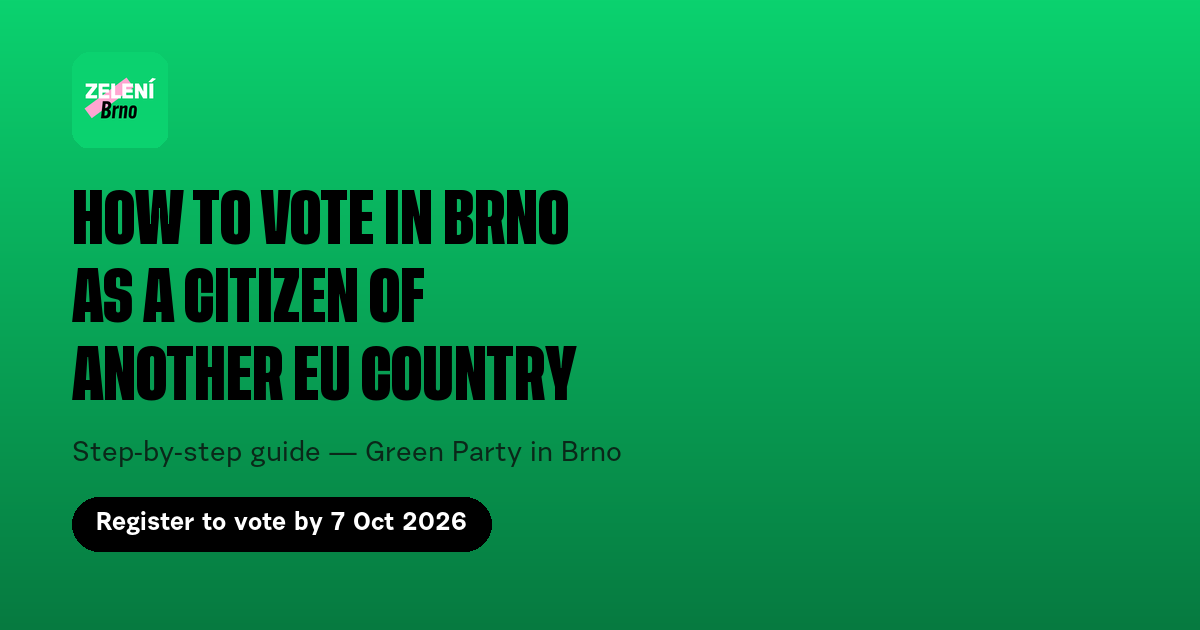
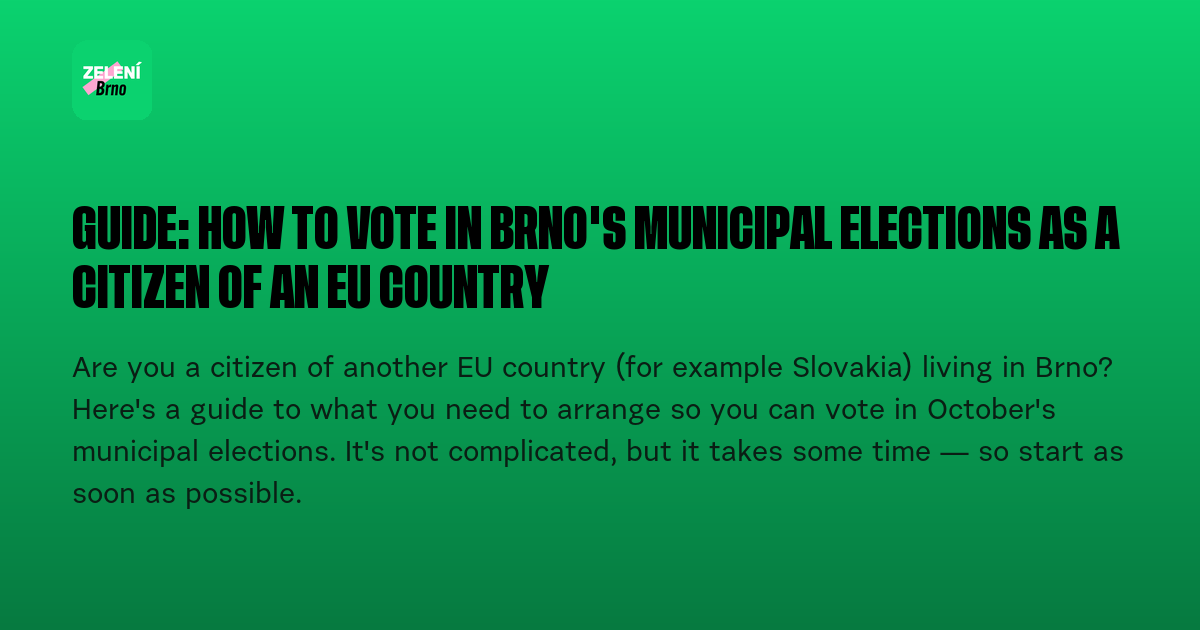
Match the English social preview to the new Czech copy
Same layout and translated title/body text as the Czech og-image,
with og:title/og:description updated to match.

diff --git a/en/index.html b/en/index.html
@@ -17,19 +17,19 @@
 <meta property="og:locale:alternate" content="cs_CZ">
 <meta property="og:site_name" content="Voting in Brno 2026">
 <meta property="og:url" content="https://volbyvbrne.cz/en/">
-<meta property="og:title" content="How to vote in Brno as a citizen of another EU country">
-<meta property="og:description" content="Step-by-step guide: how to get proof of residence and register on the voter list for the 2026 municipal elections in Brno.">
+<meta property="og:title" content="Guide: how to vote in Brno's municipal elections as a citizen of an EU country">
+<meta property="og:description" content="Are you a citizen of another EU country (for example Slovakia) living in Brno? Here's a guide to what you need to arrange so you can vote in October's municipal elections. It's not complicated, but it takes some time — so start as soon as possible.">
 <meta property="og:image" content="https://volbyvbrne.cz/assets/og-image-en.png">
 <meta property="og:image:width" content="1200">
 <meta property="og:image:height" content="630">
-<meta property="og:image:alt" content="How to vote in Brno as a citizen of another EU country — Green Party in Brno">
+<meta property="og:image:alt" content="Guide: how to vote in Brno's municipal elections as a citizen of an EU country — Green Party in Brno">
 
 <!-- Twitter / X -->
 <meta name="twitter:card" content="summary_large_image">
-<meta name="twitter:title" content="How to vote in Brno as a citizen of another EU country">
-<meta name="twitter:description" content="Step-by-step guide: how to get proof of residence and register on the voter list for the 2026 municipal elections in Brno.">
+<meta name="twitter:title" content="Guide: how to vote in Brno's municipal elections as a citizen of an EU country">
+<meta name="twitter:description" content="Are you a citizen of another EU country (for example Slovakia) living in Brno? Here's a guide to what you need to arrange so you can vote in October's municipal elections. It's not complicated, but it takes some time — so start as soon as possible.">
 <meta name="twitter:image" content="https://volbyvbrne.cz/assets/og-image-en.png">
-<meta name="twitter:image:alt" content="How to vote in Brno as a citizen of another EU country — Green Party in Brno">
+<meta name="twitter:image:alt" content="Guide: how to vote in Brno's municipal elections as a citizen of an EU country — Green Party in Brno">
 
 <link rel="alternate" hreflang="cs" href="https://volbyvbrne.cz/">
 <link rel="alternate" hreflang="en" href="https://volbyvbrne.cz/en/">